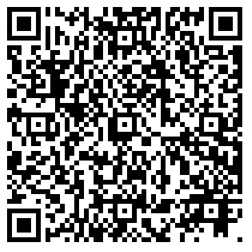
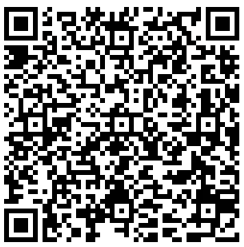
usa

diff --git a/index.html b/index.html
@@ -55,9 +55,8 @@
         <h2>SSR链接</h2>
         <div class="set_bgc">
             <p id="copy_text" style="opacity:0;text-indent: -9999em;z-index:-1;height:1px;margin:0;padding:0;">
-                ssr://MTM5LjE4MC4yMTIuMTYxOjIzNjY1OmF1dGhfc2hhMV92NDphZXMtMjU2LWNmYjpwbGFpbjpjWGRsY25SNWRXbHZjRzF1WW5abmFpNTBZZw
+                ssr://NjYuNDIuMzcuODQ6MjM2NjU6YXV0aF9zaGExX3Y0OmFlcy0yNTYtY2ZiOnBsYWluOmNYZGxjblI1ZFdsdmNHMXVZblpuYWk1MFln
             </p>
-
             <div class="wave solid warning">
                 <div class="circle"></div>
                 <div class="content">
@@ -77,7 +76,7 @@
                 <br>
                 <img src="./images/18.png" alt="">
                 <br>
-                更新时间：2019/11/27
+                更新时间：2019/11/28
             </p>
         </div>
 
@@ -91,7 +90,7 @@
                     <i class="fa fa-bell"></i>
                 </div>
             </div>
-            <p class="copy_btn">
+            <p class="copy_btn font_red">
                 <i>状态: 不可用</i>
                 <br>
                 V2ray链接:
